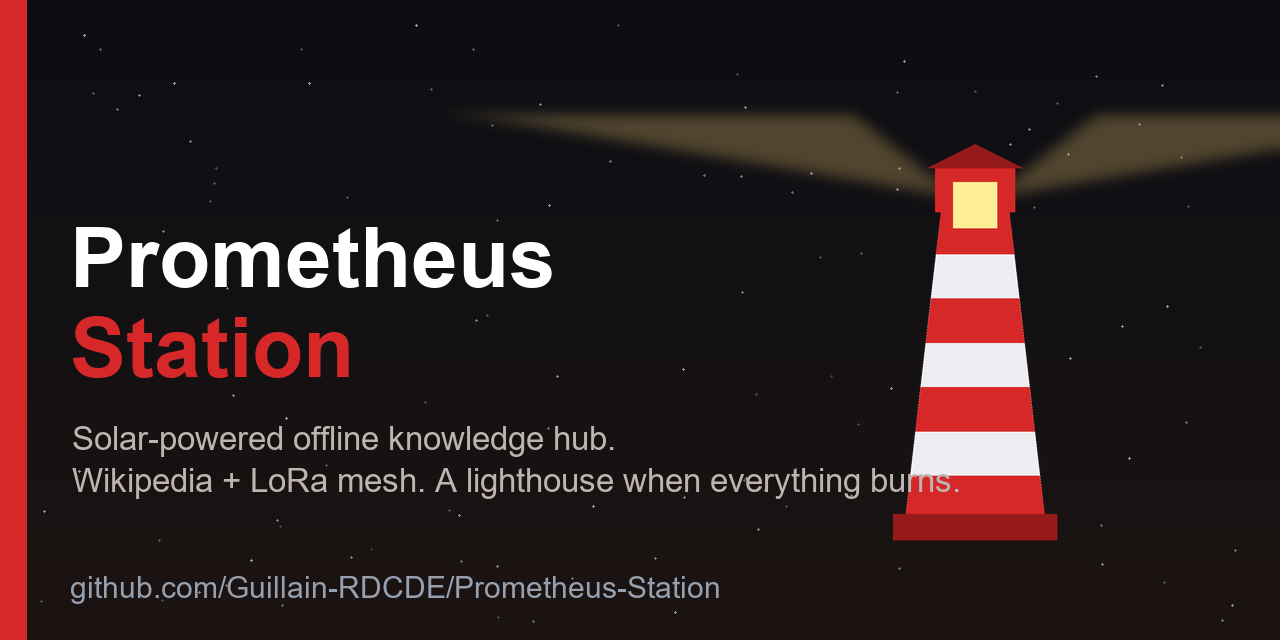
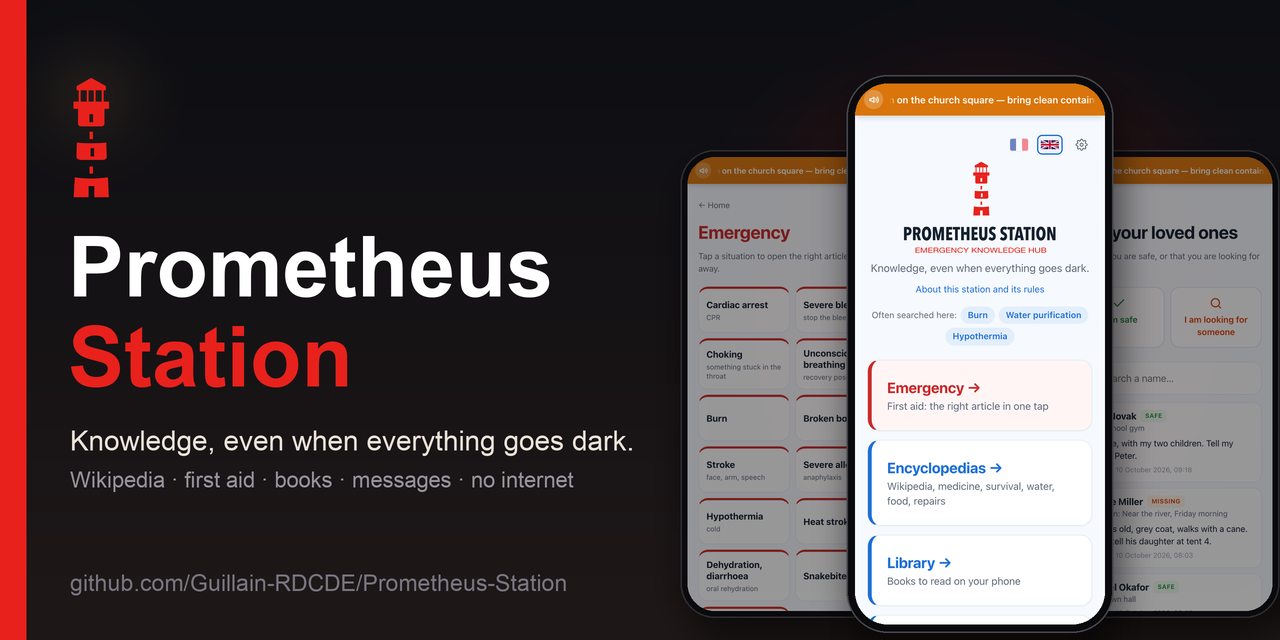
New social preview, simpler README header
The card now shows the real lighthouse from the logo and three real
screens of the station, in the same family as the other repositories,
and no longer claims solar power. The README opens with it alone:
the logo repeated underneath is gone.

diff --git a/README.md b/README.md
@@ -1,10 +1,7 @@
 <div align="center">
 
-![Prometheus Station — a lighthouse when everything burns](social-preview.png)
+![Prometheus Station — knowledge, even when everything goes dark](social-preview.png)
 
-![Prometheus Station Logo](logo.png)
-
-# 
 ### 🔥 A lighthouse when everything burns
 
 </div>
